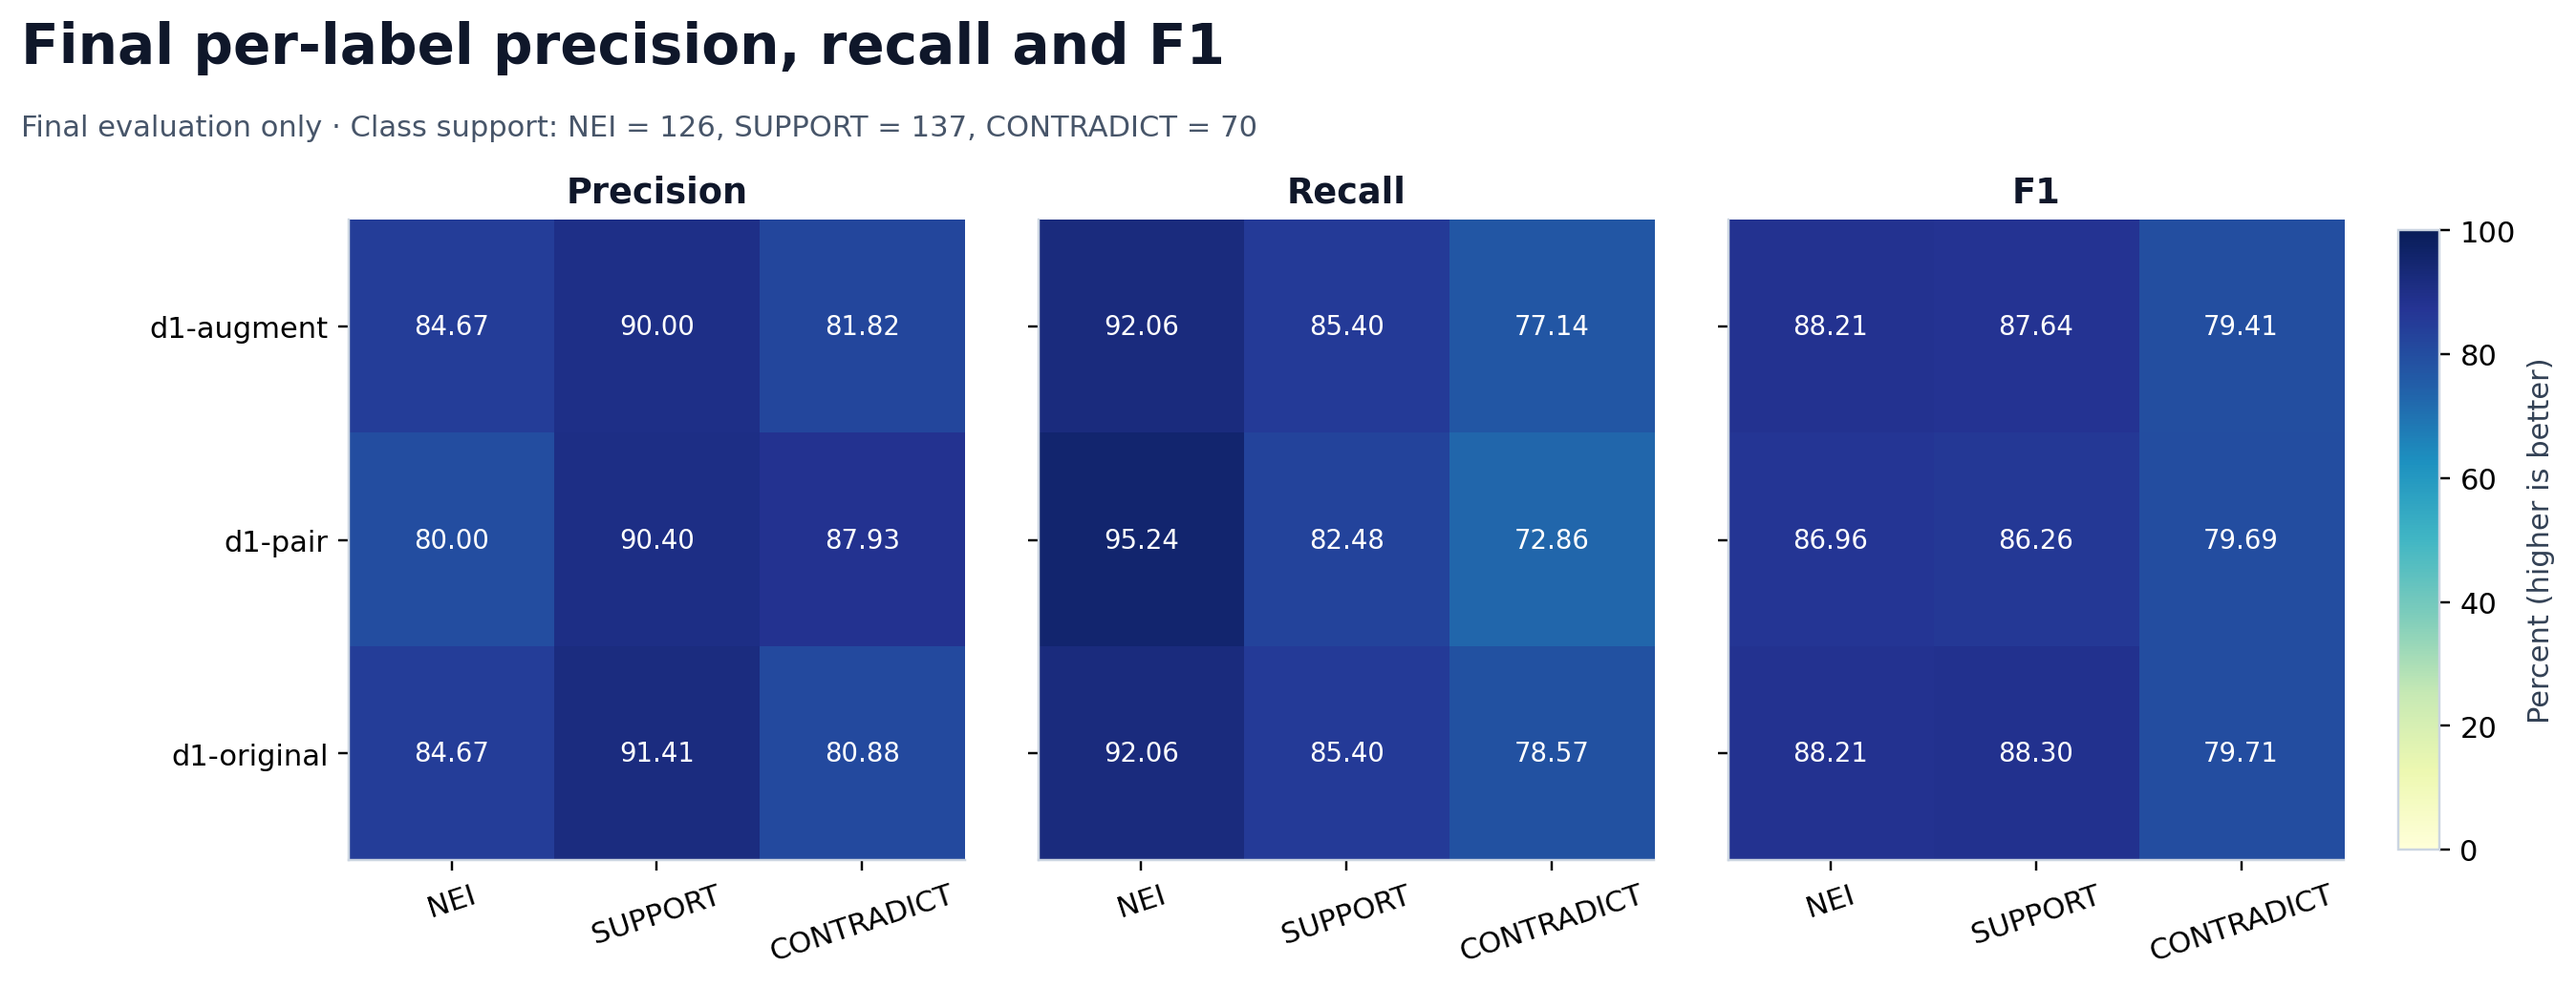
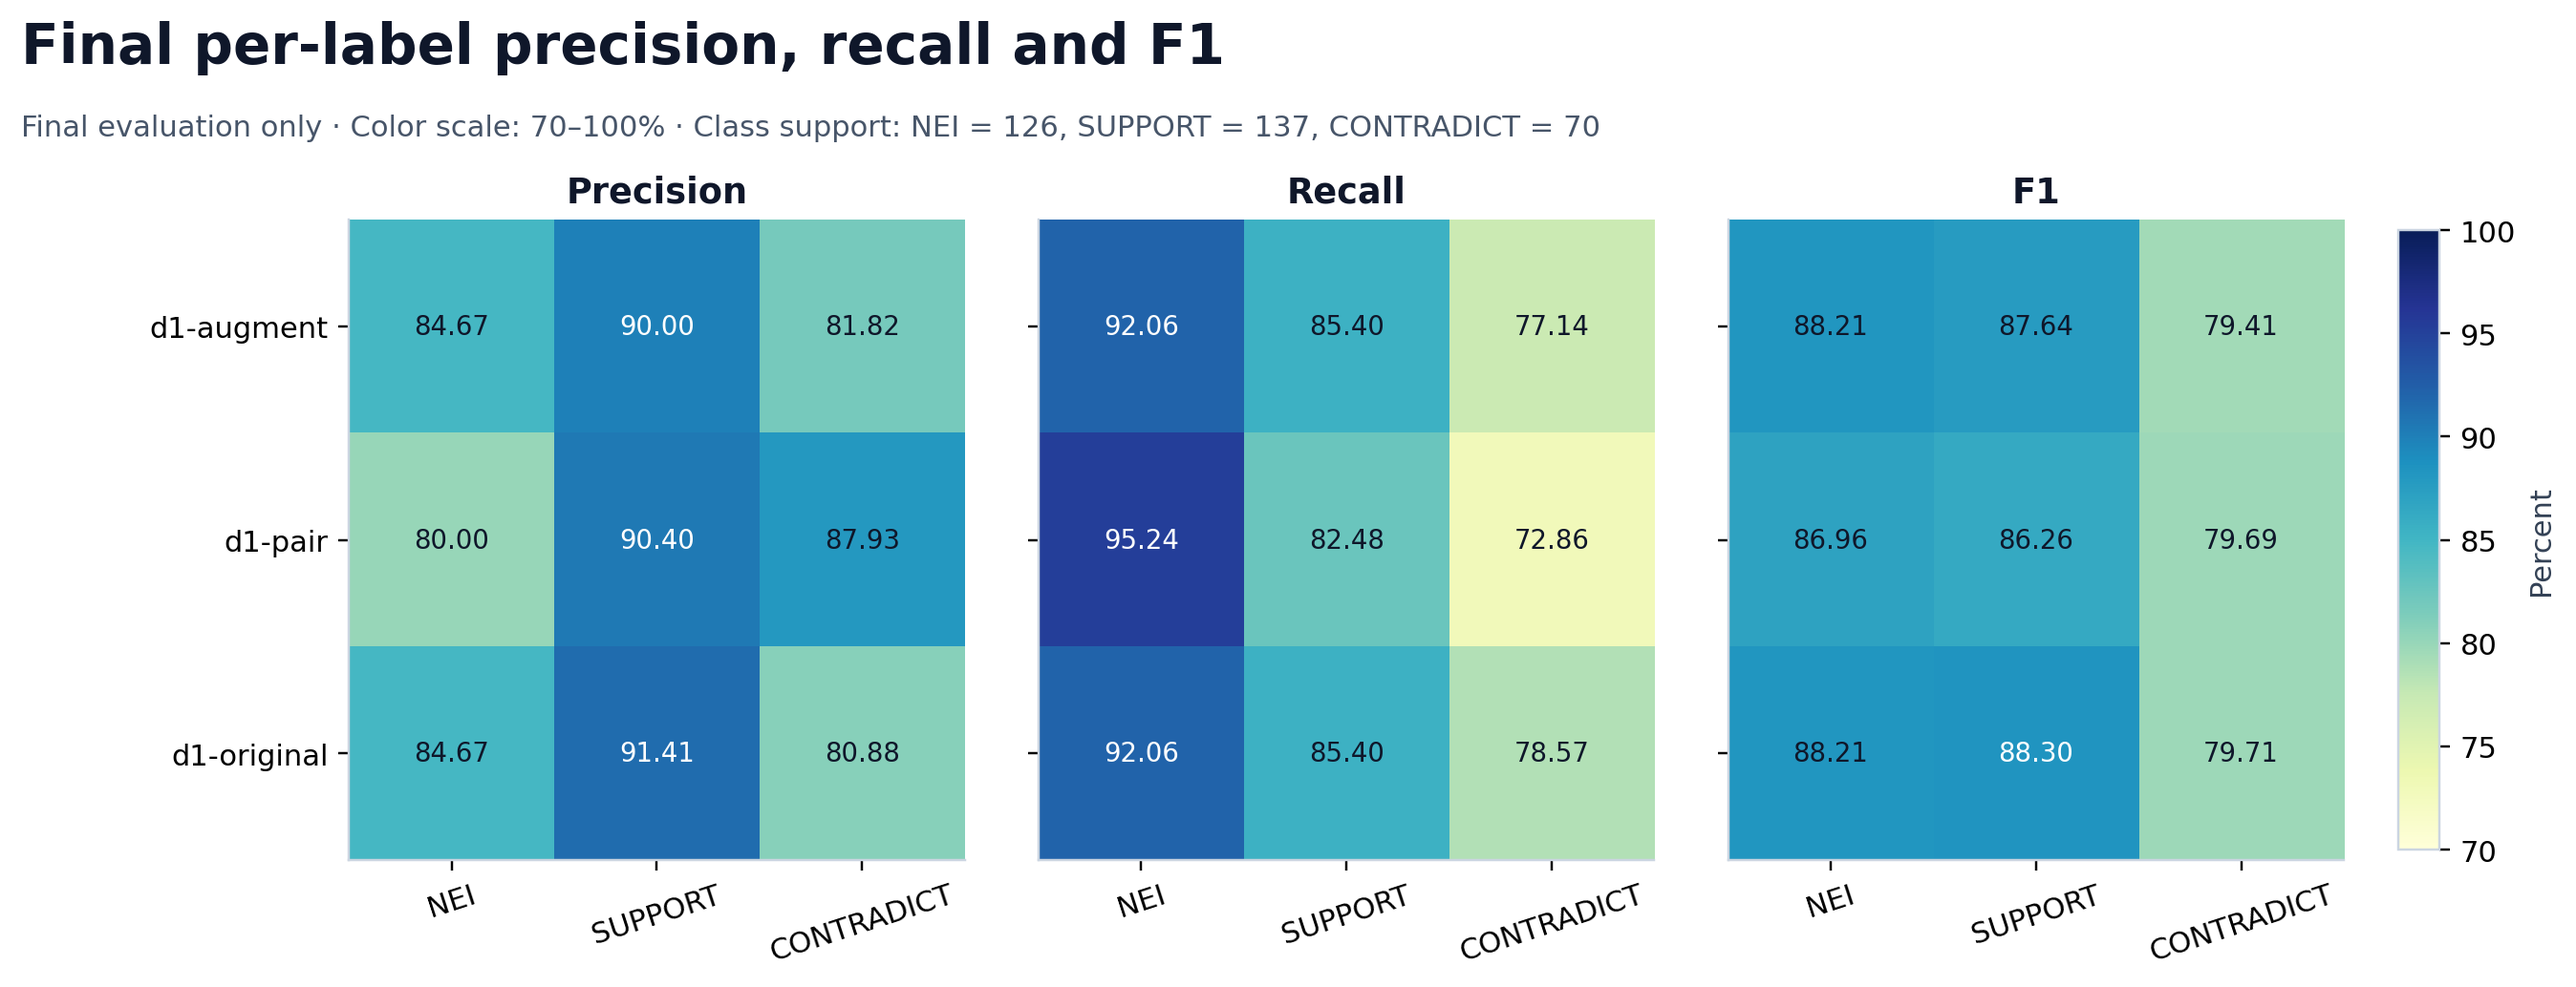
change plots

diff --git a/LiquidAI/figures/plot_test_metrics.py b/LiquidAI/figures/plot_test_metrics.py
@@ -267,18 +267,20 @@ def plot_per_label(out, records):
     labels = [DISPLAY_NAMES[r['run']] for r in records]
     for ax, metric in zip(axes, ("precision", "recall", "f1")):
         values = np.array([[r["metrics"]["per_label"][label][metric] * 100 for label in LABELS] for r in records])
-        image = ax.imshow(values, cmap="YlGnBu", vmin=0, vmax=100, aspect="auto")
+        image = ax.imshow(values, cmap="YlGnBu", vmin=70, vmax=100, aspect="auto")
         ax.set_title(metric.capitalize())
         ax.set_xticks(range(3), LABELS, rotation=18)
         ax.set_yticks(range(len(records)), labels if ax is axes[0] else [""] * len(records))
         for i in range(len(records)):
             for j in range(3):
+                red, green, blue, _ = image.cmap(image.norm(values[i,j]))
+                luminance = 0.2126 * red + 0.7152 * green + 0.0722 * blue
                 ax.text(j, i, f"{values[i,j]:.2f}", ha="center", va="center",
-                        color="white" if values[i,j] > 65 else "#0f172a", fontsize=9)
-    decorate(fig, "Final per-label precision, recall and F1", "Final evaluation only · Class support: NEI = 126, SUPPORT = 137, CONTRADICT = 70")
+                        color="white" if luminance < 0.5 else "#0f172a", fontsize=9)
+    decorate(fig, "Final per-label precision, recall and F1", "Final evaluation only · Color scale: 70–100% · Class support: NEI = 126, SUPPORT = 137, CONTRADICT = 70")
     fig.subplots_adjust(left=0.17, right=0.90, bottom=0.19, top=0.80, wspace=0.12)
     cax = fig.add_axes([0.92, 0.20, 0.015, 0.59])
-    fig.colorbar(image, cax=cax, label="Percent (higher is better)")
+    fig.colorbar(image, cax=cax, ticks=np.arange(70, 101, 5), label="Percent")
     save(fig, out, "03_per_label_metrics")
 
 
@@ -424,7 +426,7 @@ def write_report(out, rows):
     ]
     lines += ["", "文件说明", "-----------",
         "01_final_metrics.png/pdf        final 六项主要指标的水平条形图（条形从零开始）",
-        "03_per_label_metrics.png/pdf    三个 final 的类别 precision/recall/F1 热图",
+        "03_per_label_metrics.png/pdf    三个 final 的类别 precision/recall/F1 热图（统一色阶 70%–100%）",
         "04_confusion_matrices.png/pdf   三个 final 的标签混淆矩阵（计数 + 按真实类别归一化百分比）",
         "05_evidence_counts.png/pdf      三个 final 的证据 TP/FP/FN/TN 计数",
         "06_reliability_diagrams.png/pdf 三个 final 的校准图（点面积随分箱样本数增大）",
